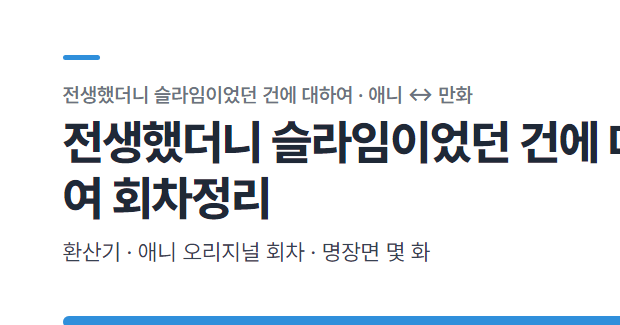
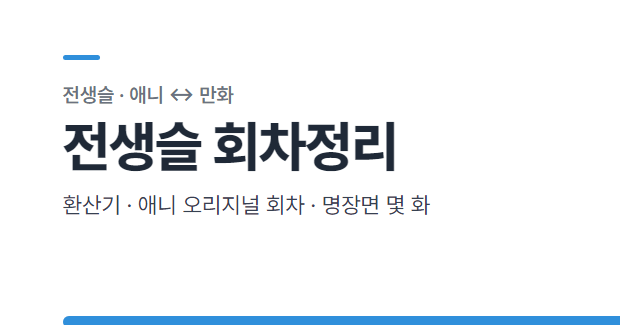
sync: 2026-10-28_23-06-51

diff --git a/콘텐츠/블로그_카페/포스팅자동화/원고/T181_강화당일치기/원고.md b/콘텐츠/블로그_카페/포스팅자동화/원고/T181_강화당일치기/원고.md
@@ -1,0 +1,154 @@
+# [원고] T181 · 서울에서 강화도 당일치기, 전등사 보고 석모도 일몰까지 (11월 초 일몰 17시 30분대 기준 시간표)
+
+사이트: black_lukey
+분류: black_lukey > 지역 놀거리 > 코스
+
+| 항목 | 내용 |
+|---|---|
+| 형식 | 지역 놀거리 · 코스 · 해요체, 짧은 문단, 이모지 조금 |
+| 채널 | 네이버 블로그 black_lukey |
+| 넣을 카테고리 | black_lukey › 지역 놀거리 |
+| 맞춘 컨셉 | 맨 위 결론 인용 상자 → 위치 지도 자리 → 여는 말 → 하루 시간표 표 → 갈 곳마다 사진 자리·코멘트·장소 카드 → 비용 합계 → 서술형 마무리 |
+| 각도 | 일몰 시각(11월 초 17시 30분 전후)에 마지막 장소를 맞추고 거꾸로 하루를 배치. 전등사 → 보문사 → 민머루해변 순서 |
+| 이 글에만 있는 것 | 일몰 기준 하루 시간표('하루 시간표 한눈에 보기') + 입장료·주차비 합계('하루 비용 계산') |
+| 왜 지금 | 11월 초 가을 시즌. 해가 짧아져 일몰이 17시 30분대라, 서해 낙조를 보고도 저녁에 돌아올 수 있는 때 |
+| 게시 적기 | 2026-10-29(목) ~ 11/6(금) — 10/31~11/1, 11/7~8 주말 계획 전 |
+| 대가성 표기 | 없음 |
+| 겹침 확인 | 14일 안 지역(단양·통영·정읍·양평·담양·공주부여·강릉)에 강화 없음. 기획표의 '일몰 기준 시간 배치' 각도로 T132·T168 과 틀을 달리함 |
+| 각도 조정 | 기획표는 '전등사 단풍'을 내세웠으나 산림청·관광공사 예측은 수도권 절정이 10월 말이고 인천 지역 예측일은 못 찾음 → 단풍은 '끝물일 수 있다'로만 쓰고 제목에서 뺐다. 기획표의 '일몰 17시 20분대'도 계산해 보니 11월 초는 17시 30분대라 고침 |
+| 참고 조사 | 확인한 출처: 한국관광공사 K-TRIP TIPS 보문사 항목(입장료·시간·주차·주소) · 맘맘(mom-mom.net, 2025-04-18 기준) 전등사·보문사·민머루해변 · 산림청 '2026 한반도 단풍절정 예측지도'(9/22, 언론 보도) · 강화군청 누리집(관광과 032-930-3124). 일몰은 공식 표를 못 열어 직접 계산(NOAA 식, 강화 37.75N 126.49E) |
+
+## 손질하면 좋아지는 곳 (사용자 몫)
+- 전등사 대웅보전·삼랑성 성곽·보문사 눈썹바위·민머루해변 일몰 사진 (자리마다 `[사진]`, 그 장소가 실제로 찍힌 것)
+- 일몰 시각은 제가 계산한 값이에요. 올리기 직전 한국천문연구원(astro.kasi.re.kr) 해·달 출몰시각에서 인천 강화도 11월 날짜를 한 번 확인해 주세요
+- 네이버 지도 장소 링크: 이 환경에서 자동 조회가 막혀 📍·🅿 줄을 주소 글로만 두었어요. 변환 때 장소 번호를 찾아 주소 글자에 걸어 주세요
+- 감상 한 줄: 낙조나 전등사에서 느낀 것 한 줄을 직접 넣을 자리
+- 버스 번호·시간표: 확인하지 못해 쓰지 않았어요. 아시는 노선이 있으면 '차 없이 가면' 단락에 더해 주세요
+
+## 확인한 사실
+| 사실 | 출처 | 확인 |
+|---|---|---|
+| 전등사 주소 인천 강화군 길상면 전등사로 37-41, 입장 무료, 이용 09:00~17:30(구석구석 자료를 인용한 글, 2026-10-14) 또는 08:30~18:00(맘맘 2025-04) | https://mom-mom.net/travel/places/6527bb4bad38f0df6396dd26 | 확인 (시간이 출처마다 달라 이른 쪽 09:00~17:30 으로 씀, 입장료는 2026년 1월 글에서 '무료 전환'으로 소개) |
+| 전등사 주차 유료: 소형 2,000원(맘맘·여행 정보), 2026-05 글 제목에는 3,000원 | 같은 곳 | 확인 (엇갈림 → '2,000~3,000원, 현장 확인'으로 씀) |
+| 전등사 문의 032-937-0125 | 검색 결과(여러 안내) | 확인 |
+| 보문사 주소 인천 강화군 삼산면 삼산남로828번길 44, 입장료 일반 2,000원 · 중고생 1,500원 · 초등생 1,000원, 이용 09:00~18:00 연중무휴, 주차 소형 2,000원 · 대형 5,000원, 문의 032-933-8271~3 | 한국관광공사 K-TRIP TIPS https://www.ktriptips.com/kor/tourspot/125533 | 확인 |
+| 보문사는 석모도 낙가산 기슭, 양양 낙산사·금산 보리암과 함께 3대 해상 관음 도량, 신라 635년 창건 전승 | 검색 결과(여행 안내) | 확인 |
+| 석모대교 2017년 6월 개통, 외포리↔석포리 페리도 운항 중이라는 안내 | 서울신문 2017-06-15 https://www.seoul.co.kr/news/2017/06/15/20170615018002 · 여행 정보 | 확인 (페리 시각·요금은 확인 못 함 → 쓰지 않음) |
+| 서울 도심에서 차로 약 1시간 반이면 외포리 포구 | K-TRIP TIPS 코스 https://www.ktriptips.com/kor/course/1909290 | 확인 (교통에 따라 달라짐) |
+| 민머루해변: 서해 낙조가 아름다운 곳, 유료주차장 종일 6,000원 | K-TRIP TIPS 코스 · 맘맘 https://mom-mom.net/travel/places/6524a3b27151927d2f95ff86 | 확인 (해변 도로명 주소는 못 찾음 → 삼산면 민머루해변으로만) |
+| 11월 강화 일몰 계산값: 11/1 17:36 · 11/2 17:35 · 11/7 17:30 · 11/8 17:29 (계산, 오차 1~2분 가정) | NOAA 일출·일몰 식으로 직접 계산 | 확인 못 함: 한국천문연구원 공식 표(astro.kasi.re.kr 은 지역 선택 화면만 열림) |
+| 산림청 9/22 단풍절정 예측: 설악산 10/20 · 속리산 10/28 · 내장산 11/4. 한국관광공사·국립수목원 단풍지도는 수도권을 10월 말부터 절정으로 | 코리아데일리 2026-09-22 https://www.koreadaily.com/article/20260922185650794 · 파이낸셜뉴스 2026-10-08 https://www.fnnews.com/news/202610080943468392 | 확인 (인천·강화 지역 예측일은 못 찾음 → 단정하지 않음) |
+| 강화 버스 번호·시간표, 석포리 마을버스 시각 | 강화군청 https://www.ganghwa.go.kr · 인천 버스정보시스템 http://bus.incheon.go.kr/bis/main.view | 확인 못 함: 시간표를 열지 못함 → 쓰지 않음 |
+
+---
+<!-- 본문 시작 -->
+# 서울에서 강화도 당일치기, 전등사 보고 석모도 일몰까지 (11월 초 일몰 17시 30분대 기준 시간표)
+<!-- 제휴가 있으면 이 줄에 대가성 문구 -->
+
+> 11월 초 강화도 일몰은 17시 30분 전후예요.
+> 그 시각에 석모도 민머루해변에 서도록 하루를 거꾸로 짰어요.
+> 차로 전등사, 보문사, 민머루해변을 돌면 한 사람 입장료는 2,000원, 승용차 주차비는 1만 원 안팎이에요.
+
+[그림] 위치 지도 — 인천 강화 (이웃 도시: 김포, 파주, 부천, 서울)
+
+오늘은 인천 강화도예요.
+서울 서쪽, 김포 너머 한강 하구에 있는 섬이고 그 서쪽 끝에 석모도가 붙어 있어요.
+11월 초는 해가 빨리 져서, 서해 낙조를 보고 돌아와도 저녁 시간이 남는 때예요. 🌅
+하루에 어디까지 욕심낼까 고민될 때, 해 지는 시각부터 거꾸로 세우면 훨씬 편해요.
+
+## 하루 시간표 한눈에 보기
+
+일몰 시각은 제가 계산한 값이에요. 11월 1일 17시 36분, 7일 17시 30분 무렵이에요. 가는 날짜의 시각은 [한국천문연구원](https://astro.kasi.re.kr) 해·달 출몰시각에서 한 번 더 보세요. 이동 시간은 길 상황에 따라 달라요.
+
+| 시간 | 동선 | 미리 해 두면 편한 것 |
+|---|---|---|
+| 08:30 | 서울 출발 | 서울 도심에서 외포리까지 차로 약 1시간 반이 걸린다고 안내돼요. 전등사는 그보다 가까워요 |
+| 10:00 → 11:30 | 전등사 | 입장은 무료, 주차는 유료. 문 닫기 전이라 여유 있어요 |
+| 11:30 → 13:00 | 점심 | 석모도로 들어가기 전에 먹어 두면 시간이 안 쪼들려요 |
+| 13:00 → 14:30 | 석모대교로 석모도 이동 | 대교가 열려 있어 배 시간을 맞출 필요가 없어요 |
+| 14:30 → 16:15 | 보문사 | 18시 마감이지만 오르는 길이 있어 여유 있게 잡았어요 |
+| 16:15 → 16:40 | 보문사 → 민머루해변 | |
+| 16:40 → 17:40 | 민머루해변 일몰 | 일몰 20~30분 전에 자리 잡기 |
+| 17:45 | 서울 방향 출발 | 주말 저녁 정체를 감안해 여유를 두세요 |
+
+일몰이 하루의 맨 끝이라, 앞의 두 곳은 시간이 밀려도 일몰만큼은 놓치지 않게 짰어요. 시간이 부족한 날은 보문사 체류를 줄이면 돼요.
+
+## 1. 전등사: 성곽 안에 들어앉은 오래된 절
+
+[사진] 전등사 대웅보전과 삼랑성 성곽
+
+강화 정족산 자락 성곽 안에 있는 절이에요. 입구를 지나면 오래된 절집 풍경이 이어져서 산책하듯 둘러보기 좋아요.
+
+단풍이 목적이라면 조심할 점이 하나 있어요. 산림청과 관광공사 예측으로 수도권 단풍 절정은 10월 말이라, 11월 초는 끝물일 수 있어요. 인천·강화 지역 예측일은 찾지 못했으니, 단풍보다는 고즈넉한 사찰 산책으로 마음을 먹고 가는 편이 좋겠어요. 낙엽 쌓인 길도 그 나름대로 가을이에요. 🍂
+
+::: 장소 | 전등사
+⏰ 관람 | 09:00~17:30 (안내 자료마다 시간이 조금 달라요) · 문의 032-937-0125
+💳 입장료 | 무료
+🎫 예약 | 없음, 현장 방문
+🚌 가는 법 | 차로 이동 (대중교통은 아래 '차 없이 가면' 참고)
+🅿 주차 | 전등사 주차장 소형 2,000~3,000원 (안내가 엇갈려요, 현장 확인)
+📍 주소 | 인천 강화군 길상면 전등사로 37-41
+:::
+
+## 2. 보문사: 낙가산 기슭, 바다를 보는 관음 도량
+
+[사진] 보문사 경내와 낙가산 자락
+
+석모도 낙가산에 있는 절이에요. 신라 635년에 세웠다고 전해지고, 양양 낙산사·금산 보리암과 함께 우리나라 3대 해상 관음 도량으로 꼽혀요.
+
+바다를 낀 산자락이라 올라갈수록 시야가 트여요. 가을 오후의 빛이 길게 들어오는 시간이라 사진 찍기에도 좋을 것 같아요. 다른 절과 달리 입장료를 받으니 현금이나 카드를 준비하세요.
+
+::: 장소 | 보문사
+⏰ 관람 | 09:00~18:00 · 연중무휴
+💳 입장료 | 일반 2,000원 · 중고생 1,500원 · 초등생 1,000원 · 미취학 무료
+🎫 예약 | 없음, 현장 방문 · 문의 032-933-8271~3
+🚌 가는 법 | 석모대교를 건너 차로 이동
+🅿 주차 | 보문사 주차장 소형 2,000원 · 대형 5,000원
+📍 주소 | 인천 강화군 삼산면 삼산남로828번길 44
+:::
+
+## 3. 민머루해변: 오늘의 마지막, 서해 낙조
+
+[사진] 민머루해변 갯벌 위로 지는 해
+
+서해 낙조가 아름답다고 알려진 석모도의 해변이에요. 이 하루 일정의 끝이 이곳이에요. 서쪽으로 열린 바다라서 해가 수평선 쪽으로 내려가는 모습을 볼 수 있어요.
+
+해가 지기 20~30분 전에는 자리를 잡아 두세요. 해 진 직후에는 바닷바람이 차가우니 겉옷을 꼭 챙기세요. 붉게 물드는 하늘을 보며 하루를 마무리하는 것, 이 코스의 하이라이트라고 생각해요. 🌅
+
+::: 장소 | 민머루해변
+⏰ 관람 | 상시 개방 (해변)
+💳 입장료 | 무료
+🎫 예약 | 없음
+🚌 가는 법 | 보문사에서 차로 이동
+🅿 주차 | 해변 유료주차장 종일 6,000원 (안내 기준, 현장 확인)
+📍 주소 | 인천 강화군 삼산면 민머루해변 일대
+🌅 이곳만의 것 | 서쪽 바다 일몰, 썰물 때 갯벌
+:::
+
+## 차 없이 가면
+
+대중교통 버스 번호와 시간표는 확인하지 못해서 여기에 적지 않았어요. 석포리 선착장에서 보문사·민머루해변 방면 마을버스가 다닌다는 안내는 있지만, 일몰 뒤 돌아오는 막차가 있는지가 관건이에요.
+
+차 없이 가는 날은 인천 [버스정보시스템](http://bus.incheon.go.kr/bis/main.view)에서 막차 시각부터 확인하세요. 문의는 강화군 도로교통과 032-930-3084예요. 막차가 일몰 전이라면 민머루 일몰은 건너뛰고 전등사와 보문사만 보는 편이 안전해요.
+
+## 하루 비용 계산 (승용차 한 대 기준)
+
+| 항목 | 금액 |
+|---|---|
+| 전등사 입장 | 0원 |
+| 전등사 주차 (소형) | 2,000원 |
+| 보문사 입장 (어른, 한 사람) | 2,000원 |
+| 보문사 주차 (소형) | 2,000원 |
+| 민머루해변 주차 | 6,000원 |
+| 합계 | 12,000원 |
+
+두 사람이 타면 한 사람 6,000원 정도예요. 전등사 주차가 3,000원이면 1,000원이 더 들어요. 기름값과 점심값은 따로예요.
+
+전등사의 고요한 경내에서 하루를 열고, 바다를 보는 보문사에서 숨을 돌린 뒤, 민머루해변의 붉은 낙조로 닫는 코스예요. 해 지는 시각이 이른 때라 서두르지 않아도 석양을 놓치지 않아요. 따뜻하게 입고 잘 다녀오세요.
+
+참고: 한국관광공사 K-TRIP TIPS 보문사 https://www.ktriptips.com/kor/tourspot/125533 · 전등사·민머루해변 안내(맘맘 mom-mom.net, 2025-04 기준) · 산림청 '2026 한반도 단풍절정 예측지도'(9/22, 언론 보도) · 강화군청 https://www.ganghwa.go.kr · 일몰 시각은 직접 계산값 — 확인일 2026-10-29. 시각·요금은 바뀔 수 있으니 출발 전 한 번 더 확인하세요.
+<!-- 본문 끝 -->
+
+---
+태그: 강화도당일치기, 서울근교, 전등사, 보문사, 석모도, 민머루해변, 석모도일몰, 강화도가을, 서울근교드라이브, 11월나들이
+소개: 서울에서 강화도 전등사, 석모도 보문사, 민머루해변 일몰까지 11월 초 일몰 17시 30분대에 맞춰 짠 하루 시간표와 입장료·주차비 합계(승용차 12,000원)를 정리했어요.
